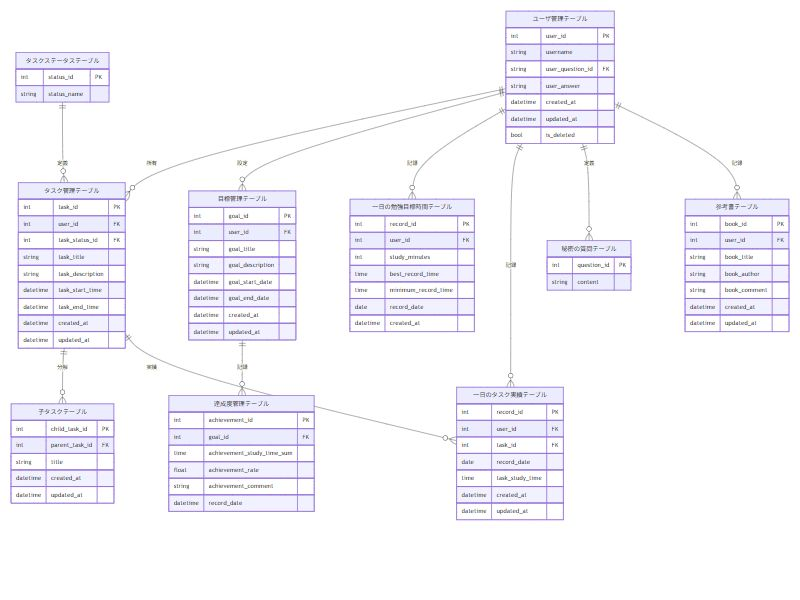
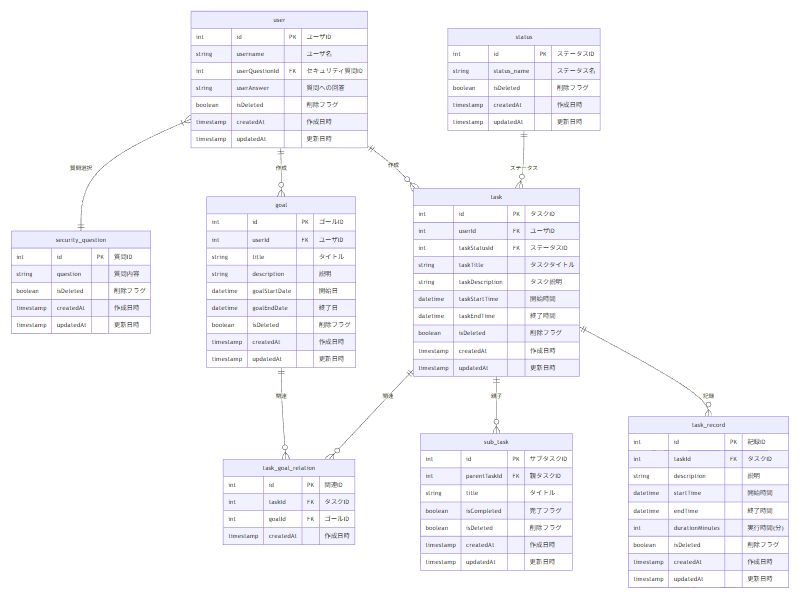
Merge pull request #2 from taka727/feature/createER
ER図の作成、スキーマの修正

Pull request: ER図の作成、スキーマの修正

diff --git a/backend/document/databaseERDiagram.md b/backend/document/databaseERDiagram.md
@@ -1,134 +1,102 @@
 ```mermaid
-    erDiagram
-        %% ユーザ管理テーブル
-        ユーザ管理テーブル {
-        int user_id PK
-        string username
-        string user_question_id FK
-        string user_answer
-        datetime created_at
-        datetime updated_at
-        bool is_deleted 
-        }
+erDiagram
+    %% ユーザーテーブル
+    user {
+        int id PK "ユーザID"
+        string username "ユーザ名"
+        int userQuestionId FK "セキュリティ質問ID"
+        string userAnswer "質問への回答"
+        boolean isDeleted "削除フラグ"
+        timestamp createdAt "作成日時"
+        timestamp updatedAt "更新日時"
+    }
 
-        %% 秘密の質問テーブル
-        秘密の質問テーブル {
-        int question_id PK
-        string content
-        }
+    %% セキュリティ質問テーブル
+    security_question {
+        int id PK "質問ID"
+        string question "質問内容"
+        boolean isDeleted "削除フラグ"
+        timestamp createdAt "作成日時"
+        timestamp updatedAt "更新日時"
+    }
 
-        %% タスク管理テーブル
-        タスク管理テーブル {
-        int task_id PK
-        int user_id FK
-        int task_status_id FK
-        string task_title
-        string task_description
-        datetime task_start_time
-        datetime task_end_time
-        datetime created_at
-        datetime updated_at
-        }
+    %% ステータステーブル
+    status {
+        int id PK "ステータスID"
+        string status_name "ステータス名"
+        boolean isDeleted "削除フラグ"
+        timestamp createdAt "作成日時"
+        timestamp updatedAt "更新日時"
+    }
 
-        %% タスクステータステーブル
-        タスクステータステーブル {
-        int status_id PK
-        string status_name
-        }
+    %% ゴールテーブル
+    goal {
+        int id PK "ゴールID"
+        int userId FK "ユーザID"
+        string title "タイトル"
+        string description "説明"
+        datetime goalStartDate "開始日"
+        datetime goalEndDate "終了日"
+        boolean isDeleted "削除フラグ"
+        timestamp createdAt "作成日時"
+        timestamp updatedAt "更新日時"
+    }
 
-        %% 子タスクテーブル
-        子タスクテーブル {
-        int child_task_id PK
-        int parent_task_id FK
-        string title
-        datetime created_at
-        datetime updated_at
-        }
+    %% タスクテーブル
+    task {
+        int id PK "タスクID"
+        int userId FK "ユーザID"
+        int taskStatusId FK "ステータスID"
+        string taskTitle "タスクタイトル"
+        string taskDescription "タスク説明"
+        datetime taskStartTime "開始時間"
+        datetime taskEndTime "終了時間"
+        boolean isDeleted "削除フラグ"
+        timestamp createdAt "作成日時"
+        timestamp updatedAt "更新日時"
+    }
 
-        %% 目標管理テーブル
-        目標管理テーブル {
-        int goal_id PK
-        int user_id FK
-        string goal_title
-        string goal_description
-        datetime goal_start_date
-        datetime goal_end_date
-        datetime created_at
-        datetime updated_at
-        }
+    %% サブタスクテーブル
+    sub_task {
+        int id PK "サブタスクID"
+        int parentTaskId FK "親タスクID"
+        string title "タイトル"
+        boolean isCompleted "完了フラグ"
+        boolean isDeleted "削除フラグ"
+        timestamp createdAt "作成日時"
+        timestamp updatedAt "更新日時"
+    }
 
-        %% 達成度管理テーブル
-        達成度管理テーブル {
-        int achievement_id PK 
-        int goal_id FK
-        time achievement_study_time_sum
-        float achievement_rate
-        string achievement_comment
-        datetime record_date
-        }
+    %% タスク記録テーブル
+    task_record {
+        int id PK "記録ID"
+        int taskId FK "タスクID"
+        string description "説明"
+        datetime startTime "開始時間"
+        datetime endTime "終了時間"
+        int durationMinutes "実行時間(分)"
+        boolean isDeleted "削除フラグ"
+        timestamp createdAt "作成日時"
+        timestamp updatedAt "更新日時"
+    }
 
-        %% 一日の勉強目標時間テーブル
-        一日の勉強目標時間テーブル {
-        int record_id PK
-        int user_id FK
-        int study_minutes
-        time best_record_time
-        time minimum_record_time
-        date record_date
-        datetime created_at
-        }
+    %% タスクとゴールの関連テーブル(必要に応じて)
+    task_goal_relation {
+        int id PK "関連ID"
+        int taskId FK "タスクID"
+        int goalId FK "ゴールID"
+        timestamp createdAt "作成日時"
+    }
 
-        %% 参考書テーブル
-        参考書テーブル {
-        int book_id PK
-        int user_id FK
-        string book_title
-        string book_author
-        string book_comment
-        datetime created_at
-        datetime updated_at
-        }
-
-        %% 一日のタスク実績テーブル
-        一日のタスク実績テーブル {
-        int record_id PK
-        int user_id FK
-        int task_id FK
-        date record_date
-        time task_study_time
-        datetime created_at
-        datetime updated_at
-        }
-
-        %% テーブル間のリレーションシップ
-
-        %% ユーザ管理とタスク管理：ユーザは複数のタスクを所有
-        ユーザ管理テーブル ||--o{ タスク管理テーブル : "所有"
-
-        %% タスク管理とタスクステータス：各タスクは1つの状態を持つ
-        タスクステータステーブル ||--o{ タスク管理テーブル : "定義"
-
-        %% タスク管理と子タスク：1つのタスクは複数の子タスクに分解される
-        タスク管理テーブル ||--o{ 子タスクテーブル : "分解"
-
-        %% ユーザ管理と目標管理：ユーザは複数の目標を持つ
-        ユーザ管理テーブル ||--o{ 目標管理テーブル : "設定"
-
-        %% 目標管理と達成度管理：1つの目標に対して複数の進捗記録
-        目標管理テーブル ||--o{ 達成度管理テーブル : "記録"
-
-        %% ユーザ管理と一日の勉強目標時間：ユーザは毎日の勉強目標を持つ
-        ユーザ管理テーブル ||--o{ 一日の勉強目標時間テーブル : "記録"
-
-        %% ユーザ管理と一日のタスク実績：ユーザはタスク実績を記録
-        ユーザ管理テーブル ||--o{ 一日のタスク実績テーブル : "記録"
-
-        %% タスク管理と一日のタスク実績：タスク実績は特定のタスクに紐付く
-        タスク管理テーブル ||--o{ 一日のタスク実績テーブル : "実績"
-
-        %% ユーザ管理と秘密の質問テーブル：ユーザは複数の質問から一問定義する
-        ユーザ管理テーブル ||--o{ 秘密の質問テーブル : "定義"
-
-        %% ユーザ管理と秘密の質問テーブル：ユーザは読書中の本を管理することができる
-        ユーザ管理テーブル ||--o{ 参考書テーブル : "記録"
+    %% リレーション
+    user ||--o{ goal : "作成"
+    user ||--o{ task : "作成"
+    user }|--|| security_question : "質問選択"
+    
+    status ||--o{ task : "ステータス"
+    
+    goal ||--o{ task_goal_relation : "関連"
+    task ||--o{ task_goal_relation : "関連"
+    task ||--o{ sub_task : "親子"
+    task ||--o{ task_record : "記録"
 ```